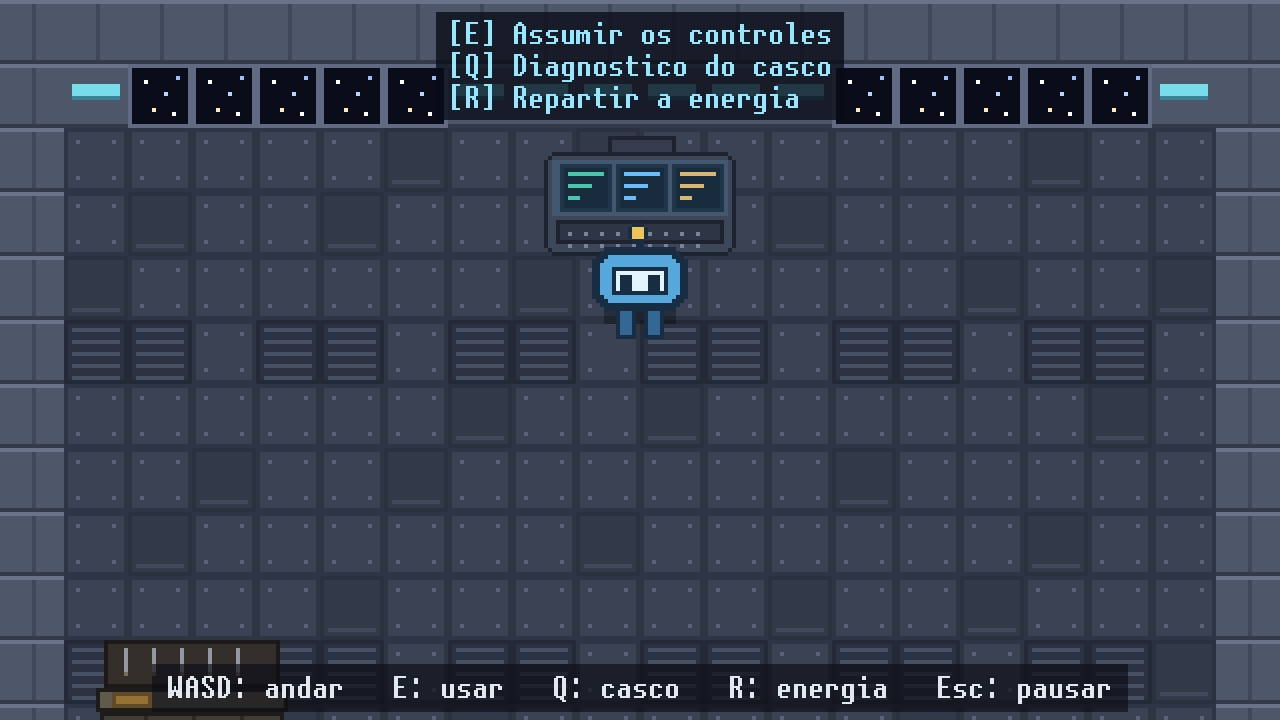
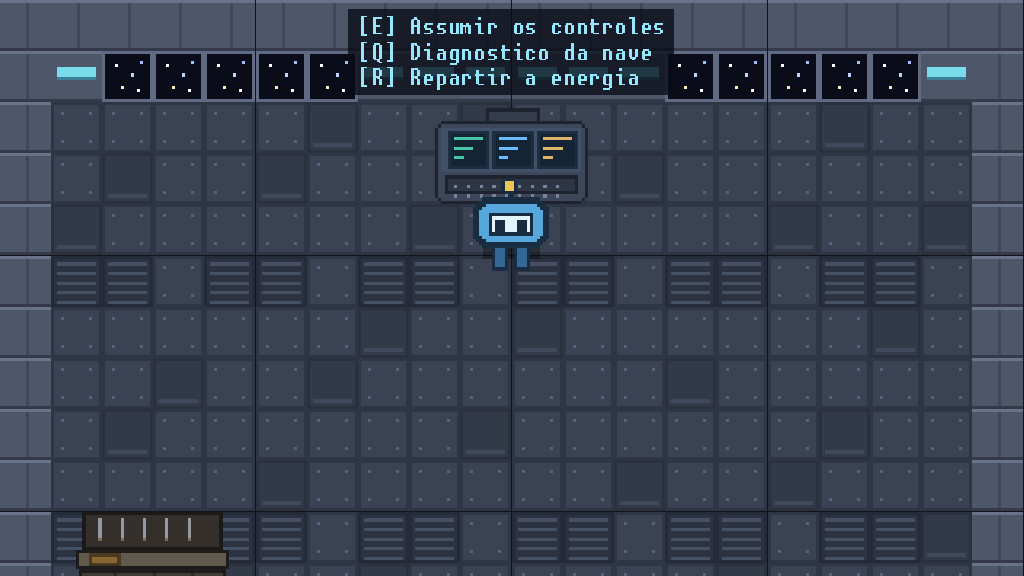
Resume a abertura do README e atualiza as capturas
O paragrafo de abertura tinha virado um bloco de vinte e cinco linhas
que repetia os numeros do turbo ja detalhados no COMO_JOGAR.md. Quebrei
em tres paragrafos curtos -- conceito, paineis do conves, voo automatico
e fim do casco -- e deixei os numeros so no manual.

As capturas interior.png e voo.png estavam de antes das mudancas de HUD
e do campo de asteroides; regeradas. Somada a menu.png, o README agora
mostra as tres telas na ordem inicial -> interior -> voo.

diff --git a/README.md b/README.md
@@ -1,30 +1,28 @@
 # Jogo SDL3
 
-Você anda pelo interior de uma nave em 2D, usa o painel de pilotagem do convés e
-a tela vira um voo 3D: um caça low poly atravessando um campo de estrelas gerado
-proceduralmente, desviando de asteroides — que não vêm em chuva constante: o
-campo tem bolsões e veios, a viagem alterna vazio e aperto, as pedras derivam
-(desviar é prever onde elas vão estar) e, de vez em quando, aparece um monólito
-que não se contorna no último segundo: ou você decidiu cedo, ou bateu. O mesmo
-painel também abre o diagnóstico da nave, que mostra o casco — que perde um pedaço a cada rocha,
-inclusive nas batidas que acontecem enquanto você anda lá dentro — e o tanque de
-turbo; e a repartição de energia, onde se decide quanto do motor, do turbo, do
-sensor e da blindagem a nave vai ter: a soma é fixa, então toda vantagem sai do
-risco de outro lugar. **O turbo é escasso:** sai de um tanque que dá cinco
-segundos e leva quarenta e cinco para se refazer, e esgotá-lo superaquece o motor
-— que só volta a abrir depois de esfriar o bastante para render um segundo
-inteiro. Quanto ele puxa e quantos segundos dura são o mesmo ponto de energia,
-que vai de um empurrão de dois segundos a um de nove. E ele **vai
-perdendo força junto com a carga**, então a nave murcha debaixo da sua mão em vez
-de fechar o motor de uma vez: é assim que o turbo conta quanto ainda tem sem você
-precisar atravessar a nave para ler o medidor. Correr
-deixou de ser de graça e virou uma decisão sobre quando correr. No canto oposto do convés há uma
-bancada onde se solda o casco de volta, um ponto de cada vez. Enquanto você anda
-lá dentro, a nave segue voando sozinha lá fora — e o único aviso que atravessa a
-parede é o **sonar de rota**, um bipe que aperta a cadência conforme a próxima
-rocha se aproxima. No fim do casco a nave passa a avisar: a sirene
-toca e o convés pisca em vermelho. Quando o casco acaba, a nave
-se despedaça na vista externa e a viagem termina ali.
+Você anda pelo interior de uma nave em 2D e, no painel de pilotagem do convés, a
+tela vira um voo 3D: um caça *low poly* atravessando um campo de estrelas e
+asteroides gerado proceduralmente. O campo não vem em chuva constante — tem
+bolsões e veios, alterna vazio e aperto, e as pedras derivam, então desviar é
+prever onde elas vão estar. De vez em quando passa um monólito, que não se
+contorna no último segundo: ou você decidiu cedo, ou bateu.
+
+O mesmo painel abre o **diagnóstico** — o casco, que perde um pedaço a cada rocha
+(inclusive nas batidas enquanto você anda lá dentro), e o tanque de turbo — e a
+**repartição de energia**, onde se decide quanto de motor, turbo, sensor e
+blindagem a nave terá: a soma é fixa, toda vantagem sai do risco de outro lugar.
+O **turbo é escasso** — cinco segundos de tanque, quarenta e cinco para refazer —
+e esgotá-lo superaquece o motor; ainda por cima ele perde força junto com a
+carga. Correr deixou de ser de graça e virou uma decisão sobre quando correr.
+
+No canto oposto do convés, uma bancada solda o casco de volta, um ponto de cada
+vez. Enquanto você anda lá dentro, a nave voa sozinha lá fora — e o único aviso
+que atravessa a parede é o **sonar de rota**, um bipe que aperta a cadência
+conforme a próxima rocha se aproxima. No fim do casco a sirene toca e o convés
+pisca em vermelho; quando ele acaba, a nave se despedaça na vista externa e a
+viagem termina ali.
+
+![Tela inicial: o logotipo HULLBREACH — "HULL" em aço, "BREACH" em âmbar e uma fenda faiscando entre as sílabas — sobre um campo de estrelas que deriva ao fundo, com as opções Jogar, Volume, Tela cheia e Sair](docs/menu.png)
 
 ![Interior da nave: o convés de tiles com o painel de pilotagem ao fundo e as três opções que ele oferece — assumir os controles, o diagnóstico da nave e a repartição de energia](docs/interior.png)
 
